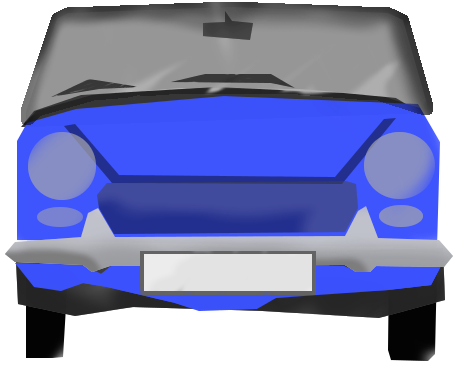
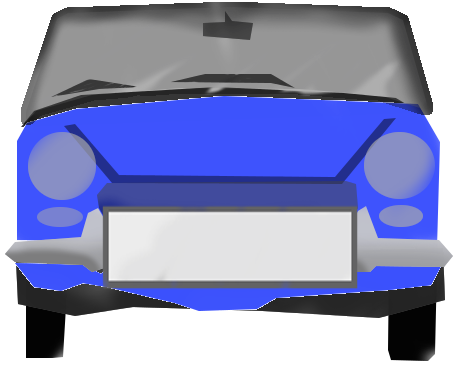
Some assets reworks

Changed region(s): [[0.2144, 0.541, 0.7965, 0.8115]]

diff --git a/src/main/java/com/fifino/gptw/screens/games/FindTheCar.java b/src/main/java/com/fifino/gptw/screens/games/FindTheCar.java
@@ -96,7 +96,7 @@ public class FindTheCar extends GPTWScreen implements TouchAction {
         winnerIdx = getRandomSignImgIdx(this.level, winnerIdx, false);
         AndroidImage signImage = Assets.getAndroidImage(getSignImg(winnerIdx));
         //Center item and put near to the top inside white box
-        MenuItem signItem = new MenuItem(signImage, g.getWidth()/2 - signImage.getWidth()/2, 145);
+        MenuItem signItem = new MenuItem(signImage, g.getWidth()/2 - signImage.getWidth()/2, 140);
         signItem.setCollidable(false);
         this.menuItems.add(signItem); //bg should be first
     }
@@ -143,9 +143,9 @@ public class FindTheCar extends GPTWScreen implements TouchAction {
                     signImageName = getSignImg(signIdx);
                 }
                 signImage = (AndroidImage) Assets.getImage(signImageName, true);
-                signImage.scale(200, 60); //white sign placeholder
+                signImage.scale(245, 90); //white sign placeholder
                 // Adding sign to car
-                sign = new MenuItem(signImage, carSprite.getX() + carSprite.getWidth()/2 - signImage.getWidth()/2, carSprite.getY() + 240);
+                sign = new MenuItem(signImage, carSprite.getX() + carSprite.getWidth()/2 - signImage.getWidth()/2, carSprite.getY() + 205);
                 carSprite.setSign(sign);
                 // Adding all cars to pool of cars
                 carSprites.add(carSprite);
@@ -153,7 +153,7 @@ public class FindTheCar extends GPTWScreen implements TouchAction {
         }catch (Exception e){
             e.printStackTrace();
         }
-            carSprite.setGame(this);
+        carSprite.setGame(this);
         carSprite.setIsLast(true);
         
     }
@@ -164,10 +164,10 @@ public class FindTheCar extends GPTWScreen implements TouchAction {
             //Helpers
             Graphics g = this.game.getGraphics();
             this.rnd = new Random();
-            int maxCars = 6,
+            int maxCars = 5,
                 maxSpeed = 15;
-            totalCars = 3 + level;
-            speed = level * 2 + 5 ;
+            totalCars = 2 + level;
+            speed = level * 3 + 4 ;
             if(speed > maxSpeed){
                 speed = maxSpeed;
             }
@@ -256,15 +256,15 @@ public class FindTheCar extends GPTWScreen implements TouchAction {
         if("winner".equalsIgnoreCase(sprite.getName())){
             win();
         } else {
-            lose();
+            lose(false);
         }
     }
     public void win(){
         this.clean(assets);
-        this.game.setScreen(new MiddleScreen(this.game, "airs-0"));
+        this.game.setScreen(new MiddleScreen(this.game, GPTWResources.FIND_THE_CAR_WIN));
     }
-    public void lose(){
+    public void lose(boolean timeout){
         this.clean(assets);
-        this.game.setScreen(new MiddleScreen(this.game, "airs-1"));
+        this.game.setScreen(new MiddleScreen(this.game, timeout ? GPTWResources.FIND_THE_CAR_LOSE_2: GPTWResources.FIND_THE_CAR_LOSE_1));
     }
 }

diff --git a/src/main/java/com/fifino/gptw/GPTWResources.java b/src/main/java/com/fifino/gptw/GPTWResources.java
@@ -10,6 +10,9 @@ public class GPTWResources {
     public static final String FIND_THE_CAR_BG = "FIND_THE_CAR_BG";
     public static final String FIND_THE_CAR_SIGN = "FIND_THE_CAR_SIGN";
     public static final String FIND_THE_CAR_CAR = "FIND_THE_CAR_CAR";
+    public static final String FIND_THE_CAR_WIN = "FIND_THE_CAR_WIN";
+    public static final String FIND_THE_CAR_LOSE_1 = "FIND_THE_CAR_LOSE_1";
+    public static final String FIND_THE_CAR_LOSE_2 = "FIND_THE_CAR_LOSE_2";
 
     //Images
     public static final String FIND_THE_CAR_IMG_BG = Assets.IMAGES_PATH + "/screens/games/cars/bg.png";
@@ -27,4 +30,9 @@ public class GPTWResources {
             Assets.IMAGES_PATH + "/screens/games/cars/car-2.png",
             Assets.IMAGES_PATH + "/screens/games/cars/car-3.png"
     };
+    public static final String FIND_THE_CAR_WIN_IMG = Assets.IMAGES_PATH + "/screens/games/cars-0.png";
+    public static final String FIND_THE_CAR_LOSE_1_IMG = Assets.IMAGES_PATH + "/screens/games/cars-1.png";
+    public static final String FIND_THE_CAR_LOSE_2_IMG = Assets.IMAGES_PATH + "/screens/games/cars-2.png";
+
+
 }

diff --git a/src/main/java/com/fifino/gptw/screens/MiddleScreen.java b/src/main/java/com/fifino/gptw/screens/MiddleScreen.java
@@ -5,6 +5,7 @@ import android.graphics.Color;
 import com.fifino.framework.assets.Assets;
 import com.fifino.framework.entities.MenuItem;
 import com.fifino.framework.entities.MenuItemComposite;
+import com.fifino.gptw.GPTWResources;
 import com.kilobolt.framework.Game;
 import com.kilobolt.framework.Graphics;
 import com.kilobolt.framework.Image;
@@ -37,6 +38,10 @@ public class MiddleScreen extends GPTWScreen {
         assets.put("alarms-2", imagesPath + "/screens/games/alarms-2.png");
         assets.put("airs-0", imagesPath + "/screens/games/airs-0.png");
         assets.put("alarms-0", imagesPath + "/screens/games/alarms-0.png");
+		assets.put(GPTWResources.FIND_THE_CAR_WIN, GPTWResources.FIND_THE_CAR_WIN_IMG);
+		assets.put(GPTWResources.FIND_THE_CAR_LOSE_1, GPTWResources.FIND_THE_CAR_LOSE_1_IMG);
+		assets.put(GPTWResources.FIND_THE_CAR_LOSE_2, GPTWResources.FIND_THE_CAR_LOSE_2_IMG);
+
 
 		String key = this.bgName;
 		//if(Assets.getImage(key) == null){

diff --git a/src/main/java/com/fifino/gptw/GPTWGamesPool.java b/src/main/java/com/fifino/gptw/GPTWGamesPool.java
@@ -6,8 +6,8 @@ package com.fifino.gptw;
 public class GPTWGamesPool {
 
     public static final Class[] LIST = new Class[]{
-            com.fifino.gptw.screens.games.TurnOffAirs.class,
-            com.fifino.gptw.screens.games.TurnOffAlarms.class,
+//            com.fifino.gptw.screens.games.TurnOffAirs.class,
+//            com.fifino.gptw.screens.games.TurnOffAlarms.class,
             com.fifino.gptw.screens.games.FindTheCar.class
     };
 }

diff --git a/src/main/java/com/fifino/gptw/screens/games/find_the_car/CarSprite.java b/src/main/java/com/fifino/gptw/screens/games/find_the_car/CarSprite.java
@@ -29,7 +29,7 @@ public class CarSprite extends Sprite {
         if(this.x < 0 - this.getWidth()){
             this.setVisible(false);
             if(isLast){
-                game.lose();
+                game.lose(true);
             }
             return;
         }
